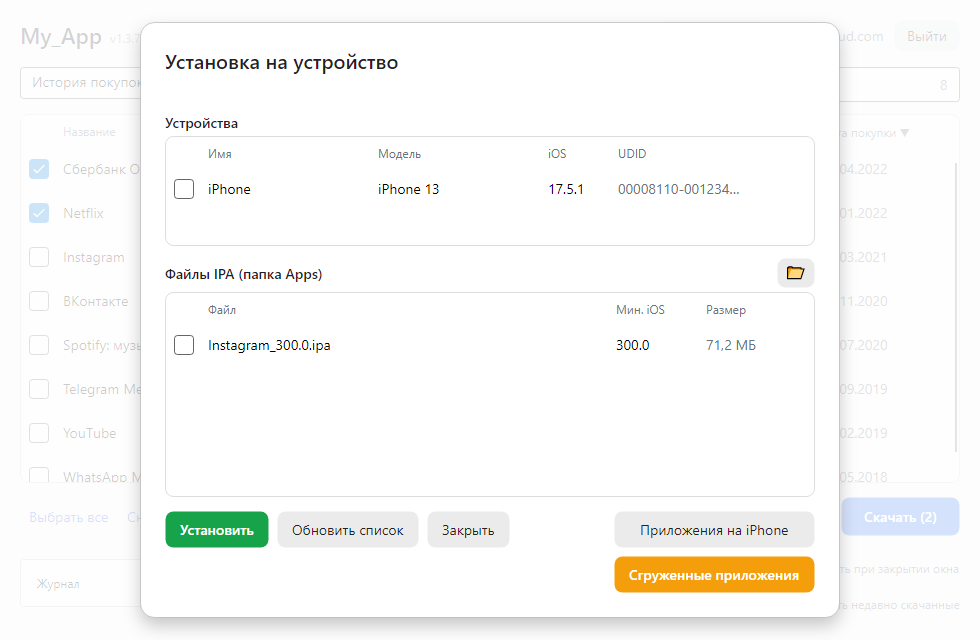
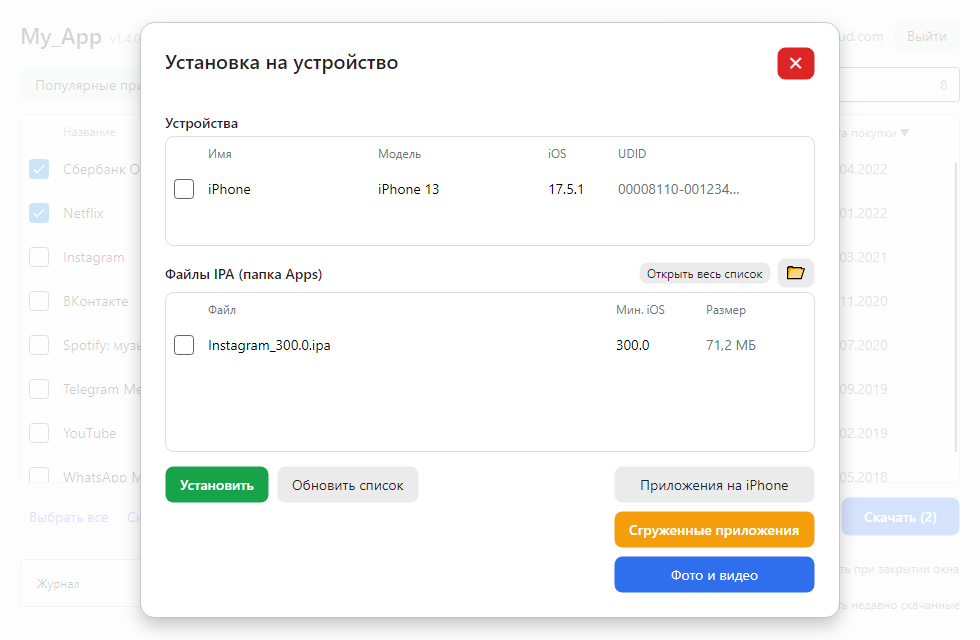
Site: Windows 1.4.0 download, guide for My apps tabs and photos/videos, system requirements

diff --git a/guide.html b/guide.html
@@ -74,16 +74,18 @@
     </section>
 
     <section class="guide-step" id="step3">
-      <h2><span class="num">3</span> Выберите «История покупок аккаунта»</h2>
-      <p>Слева над списком откройте выпадающий список и выберите <b>«История покупок аккаунта»</b>. Программа загрузит все приложения, которые вы когда-либо
-        скачивали на этот Apple ID: с названием, номером и датой. Если у вас много покупок, загрузка займёт минуту.</p>
+      <h2><span class="num">3</span> Нажмите «Мои приложения»</h2>
+      <p>В левом верхнем углу две кнопки: <b>«Популярные приложения»</b> и <b>«Мои приложения»</b>. Нажмите <b>«Мои приложения»</b>: программа загрузит приложения, которые вы
+        скачивали на этот Apple ID за последние 4 года, с названием, номером и датой покупки.</p>
+      <p>Нужное приложение старше? Когда список загрузится, под ним появится синяя ссылка <b>«Показать всю историю»</b>: нажмите её, и программа догрузит покупки с самого начала.
+        Если покупок много, это займёт минуту.</p>
       <div class="important">
         <p><b>Именно эти приложения можно скачать.</b> Список «Популярные приложения» нужен только для быстрого поиска по названию.</p>
       </div>
       <div class="shot">
-        <img src="img/guide/g3_history.png" alt="Выбрана «История покупок аккаунта»: список приложений с датами покупки" width="980" height="640" loading="lazy">
-        <span class="mark-box" style="left:1.6%;top:9.8%;width:24.2%;height:5.6%"></span>
-        <span class="mark-label" style="left:27%;top:10.6%">Выберите «История покупок аккаунта»</span>
+        <img src="img/guide/g3_history.png" alt="Нажата кнопка «Мои приложения»: список приложений аккаунта с датами покупки" width="980" height="640" loading="lazy">
+        <span class="mark-box" style="left:22.9%;top:10.4%;width:14.7%;height:5.4%"></span>
+        <span class="mark-label" style="left:38.5%;top:11%">Нажмите «Мои приложения»</span>
       </div>
       <p class="caption">Нужное приложение можно найти строкой поиска справа: по названию или номеру.</p>
     </section>
@@ -95,7 +97,7 @@
       <div class="shot">
         <img src="img/guide/g4_selected.png" alt="Отмечены два приложения, кнопка «Скачать (2)» активна" width="980" height="640" loading="lazy">
         <span class="mark-box" style="left:2.4%;top:24%;width:3.4%;height:10.8%"></span>
-        <span class="mark-box" style="left:85.5%;top:77.2%;width:12.9%;height:7%"></span>
+        <span class="mark-box" style="left:85.5%;top:77.2%;width:12.9%;height:6.8%"></span>
         <span class="mark-label" style="left:80%;top:69.8%">Затем «Скачать»</span>
       </div>
     </section>
@@ -109,12 +111,12 @@
         <img src="img/guide/g5_install.png" alt="Окно установки на устройство: список устройств и файлов, кнопка «Установить»" width="980" height="640" loading="lazy">
         <span class="mark-box" style="left:17.4%;top:27.2%;width:2.8%;height:4.4%"></span>
         <span class="mark-box" style="left:17.4%;top:51.8%;width:2.8%;height:4.4%"></span>
-        <span class="mark-box" style="left:16.9%;top:79.8%;width:10.6%;height:5.8%"></span>
+        <span class="mark-box" style="left:16.8%;top:72.8%;width:10.6%;height:5.8%"></span>
         <span class="mark-box" style="left:79.2%;top:41%;width:3.7%;height:4.8%"></span>
-        <span class="mark-box" style="left:62.4%;top:79.6%;width:20.9%;height:13.3%"></span>
-        <span class="mark-label" style="left:28.5%;top:86.6%">Отметьте iPhone и файл, затем «Установить»</span>
-        <span class="mark-label" style="left:64.5%;top:41.2%">Другая папка</span>
-        <span class="mark-label" style="left:63.5%;top:93.5%">Шаг 6: сгруженные</span>
+        <span class="mark-box" style="left:62.4%;top:72.8%;width:21.3%;height:20.2%"></span>
+        <span class="mark-label" style="left:16.8%;top:80%">Отметьте iPhone и файл, затем «Установить»</span>
+        <span class="mark-label" style="left:68%;top:33%">Другая папка</span>
+        <span class="mark-label" style="left:52%;top:94%">Ещё: сгруженные, фото и видео (шаги 6 и 7)</span>
       </div>
     </section>
 
@@ -144,6 +146,25 @@
       </div>
     </section>
 
+    <section class="guide-step" id="step7">
+      <h2><span class="num">7</span> Фото и видео с iPhone на компьютер</h2>
+      <p>В окне «На устройство» отметьте свой iPhone и нажмите синюю кнопку <b>«Фото и видео»</b>. Телефон должен быть разблокирован. Программа прочитает список и покажет
+        миниатюры, чтобы вы видели, что выгружаете.</p>
+      <p>Отметьте нужные снимки и ролики галочками (или нажмите «Выбрать все») и нажмите <b>«Выгрузить на компьютер»</b>. Фильтры «Все», «Фото» и «Видео» помогают найти нужное.
+        <b>Двойной щелчок</b> по снимку или ролику открывает его для просмотра во весь экран. Кнопка <b>«Открыть весь список»</b> показывает всё сеткой крупных миниатюр, и на экране
+        помещается больше.</p>
+      <div class="shot">
+        <img src="img/guide/g9_media.png" alt="Окно «Фото и видео»: миниатюры, галочки, кнопка «Выгрузить на компьютер»" width="980" height="640" loading="lazy">
+        <span class="mark-box" style="left:16.8%;top:85.8%;width:22.1%;height:5.8%"></span>
+        <span class="mark-box" style="left:69.8%;top:26.9%;width:13.4%;height:4.8%"></span>
+        <span class="mark-label" style="left:58%;top:87%">Затем «Выгрузить на компьютер»</span>
+        <span class="mark-label" style="left:44%;top:27.3%">Другая папка</span>
+      </div>
+      <div class="important">
+        <p>Файлы по умолчанию попадают в папку «Изображения\iPhone», другую папку выбирает кнопка «Выбрать папку…». На телефоне ничего не удаляется и не меняется.</p>
+      </div>
+    </section>
+
     <section class="guide-step" id="help">
       <h2>Подсказка в программе</h2>
       <p>Под списком приложений есть кнопка <b>«Подсказка»</b>: короткая инструкция прямо в программе. В её окне также кнопка «Синонимы поиска»: свои правила, чтобы по слову
@@ -160,7 +181,7 @@
   </main>
   <footer><div class="wrap">
       <p>ИП Злобина Татьяна Евгеньевна · ИНН 860414423064 · ОГРНИП 325861700014187 · <a href="mailto:my_app@internet.ru">my_app@internet.ru</a></p><a href="index.html">На главную</a></div></footer>
-  <script src="config.js?v=20261023k"></script>
+  <script src="config.js?v=20261028a"></script>
   <script src="stats.js?v=1" defer></script>
   <script>
     var a = document.getElementById('mail');

diff --git a/config.js b/config.js
@@ -10,13 +10,13 @@ window.MY_APP = {
   referral: { inviterDays: 7, friendDays: 7, capDays: 90 },
 
   // Ссылки на скачивание. Файлы загружаются в хранилище Supabase (бакет "downloads") или на ваш хостинг.
-  downloadWindows: "https://github.com/zloyklaus/my-app-site/releases/download/v1.3.7/My_App_Setup_1.3.7.exe",
+  downloadWindows: "https://github.com/zloyklaus/my-app-site/releases/download/v1.4.0/My_App_Setup_1.4.0.exe",
   downloadMac: {
     arm64: "https://github.com/zloyklaus/my-app-site/releases/download/v1.3.7/My_App_1.3.7_mac_arm64.dmg", // Apple Silicon (M1 и новее)
     amd64: "https://github.com/zloyklaus/my-app-site/releases/download/v1.3.7/My_App_1.3.7_mac_amd64.dmg"  // Intel
   },
 
-  version: "1.3.7",
+  version: "1.4.0",
   // Цены в рублях: запасные значения на случай, если сервер недоступен. Актуальные цены сайт берёт у функции pay
   // (таблица prices в базе), поэтому при смене цены править этот файл не обязательно.
   prices: { month: 599, half: 2870, year: 5030 },

diff --git a/index.html b/index.html
@@ -152,6 +152,7 @@
           <div class="card">
             <h3>Windows 10 / 11</h3>
             <p>Установщик: выберите папку и при желании добавьте ярлык на рабочий стол.</p>
+            <p class="muted" style="font-size:14px">Нужна 64-разрядная Windows 10 (версия 1607 и новее) или Windows 11.</p>
             <p style="margin-top:14px"><a class="btn" id="dlWin" href="#">Скачать для Windows</a></p>
           </div>
           <div class="card">
@@ -202,7 +203,7 @@
     </div>
   </footer>
 
-  <script src="config.js?v=20261023k"></script>
+  <script src="config.js?v=20261028a"></script>
   <script src="stats.js?v=1" defer></script>
   <script>
     (function () {

diff --git a/offer.html b/offer.html
@@ -62,7 +62,7 @@
   </main>
   <footer><div class="wrap">
       <p>ИП Злобина Татьяна Евгеньевна · ИНН 860414423064 · ОГРНИП 325861700014187 · <a href="mailto:my_app@internet.ru">my_app@internet.ru</a></p><a href="index.html">На главную</a></div></footer>
-  <script src="config.js?v=20261023k"></script>
+  <script src="config.js?v=20261028a"></script>
   <script>
     // Цены в тексте берутся с сервера (те же, что на главной и в боте); если сервер недоступен, остаются записанные в тексте
     (function () {

diff --git a/help.html b/help.html
@@ -82,7 +82,7 @@
   </main>
   <footer><div class="wrap">
       <p>ИП Злобина Татьяна Евгеньевна · ИНН 860414423064 · ОГРНИП 325861700014187 · <a href="mailto:my_app@internet.ru">my_app@internet.ru</a></p><a href="index.html">На главную</a></div></footer>
-  <script src="config.js?v=20261023k"></script>
+  <script src="config.js?v=20261028a"></script>
   <script src="stats.js?v=1" defer></script>
   <script>
     var a = document.getElementById('mail');

diff --git a/bonus.html b/bonus.html
@@ -33,7 +33,7 @@
   </main>
   <footer><div class="wrap">
       <p>ИП Злобина Татьяна Евгеньевна · ИНН 860414423064 · ОГРНИП 325861700014187 · <a href="mailto:my_app@internet.ru">my_app@internet.ru</a></p><a href="index.html">На главную</a></div></footer>
-  <script src="config.js?v=20261023k"></script>
+  <script src="config.js?v=20261028a"></script>
   <script src="stats.js?v=1" defer></script>
   <script>
     (function () {

diff --git a/success.html b/success.html
@@ -33,7 +33,7 @@
     </div>
   </main>
 
-  <script src="config.js?v=20261023k"></script>
+  <script src="config.js?v=20261028a"></script>
   <script>
     (function () {
       var cfg = window.MY_APP;
